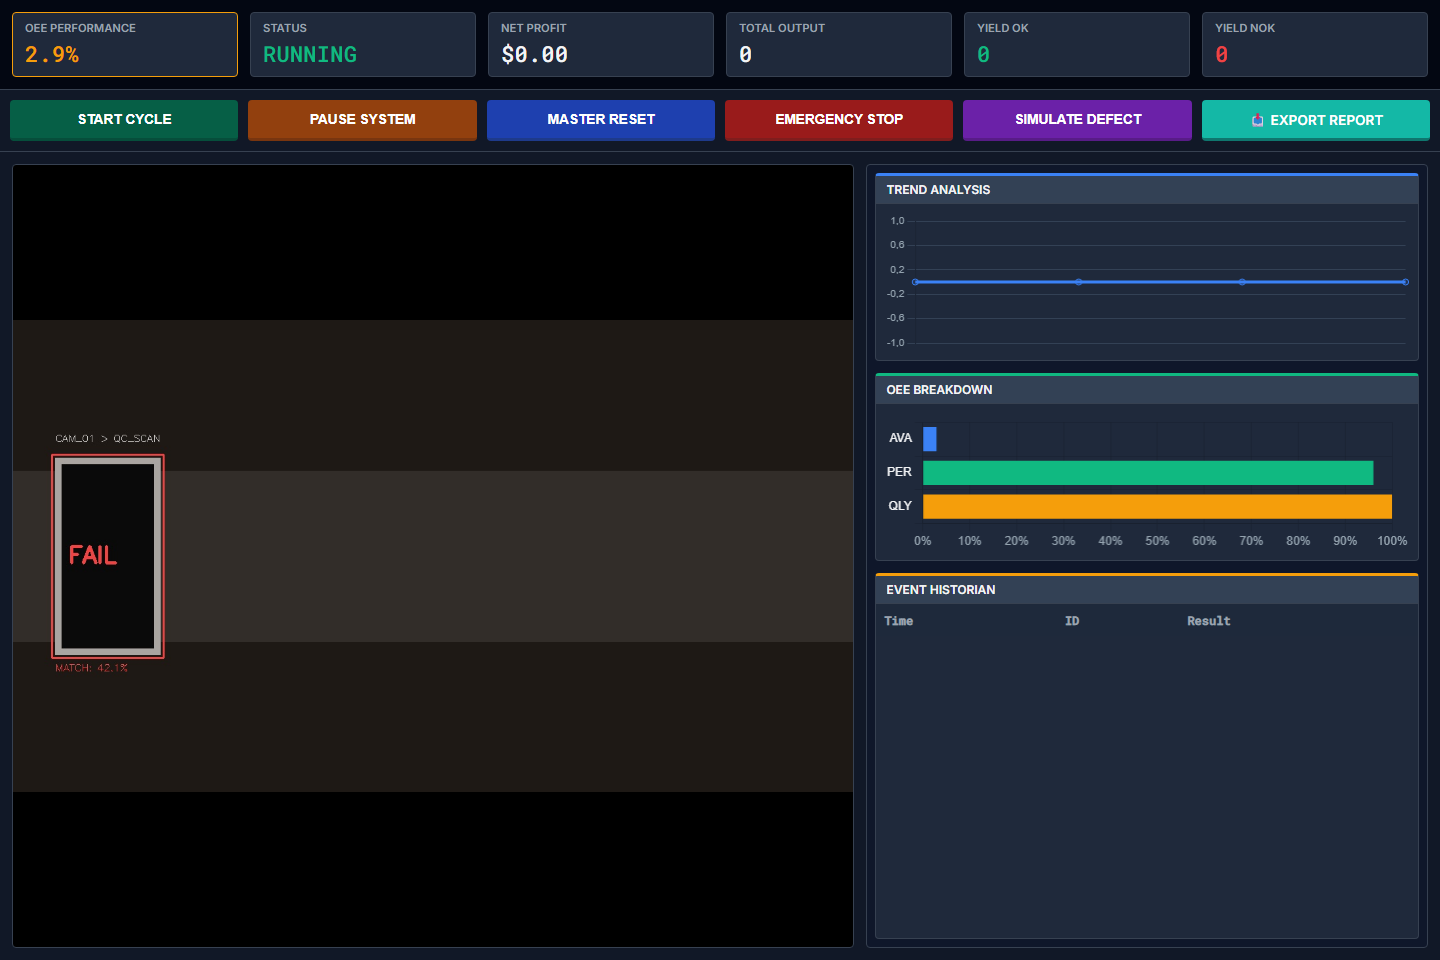
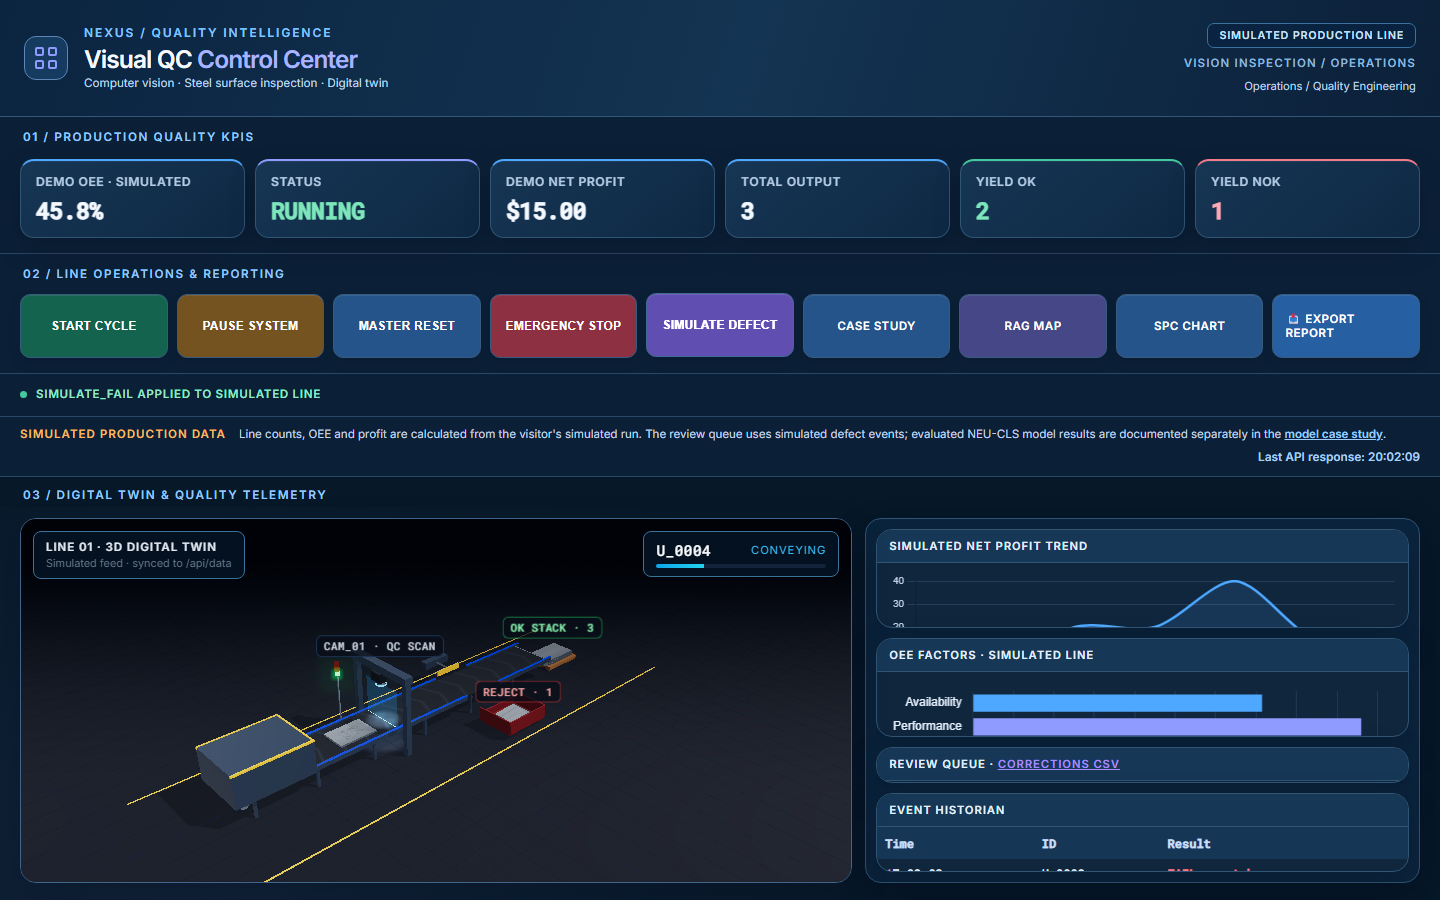
docs: publish genuine Visual QC screenshots (#47) [skip ci]

diff --git a/README.md b/README.md
@@ -1,8 +1,8 @@
 # Visual QC Project
 
-![Visual QC quality inspection workflow illustration](docs/assets/visual-qc-overview.svg)
+![Visual QC production HMI: simulated line running, digital twin, quality KPIs and defect event (real browser capture)](docs/assets/visual-qc-dashboard.png)
 
-> Editorial workflow diagram, not a captured model decision. For actual application evidence and measured performance, see the [live dashboard](https://visual-qc-project-pearl.vercel.app) and the original screenshots and evaluation charts below.
+> **Real production screenshot (14 October 2026):** recorded during a successful Chromium E2E test of the Vercel operator HMI. It shows a **simulated** production line and observed simulated defect, not actual factory production. The independent measured CV model charts below remain unchanged. [Capture provenance](docs/assets/production_screenshot_provenance_20261014.json).
 
 **Quality checks:** [CircleCI — Python/PostgreSQL validation](https://circleci.com/gh/senanurcetin/visual-qc-project/5) · GitHub Actions are not the current automatic CI provider.
 ![Python](https://img.shields.io/badge/Python-3.12-blue)
@@ -18,7 +18,7 @@ Portfolio entry: [senanur-cetin.vercel.app/projects/visual-qc-project](https://s
 
 Short video: [`docs/assets/visual-qc-dashboard.webm`](docs/assets/visual-qc-dashboard.webm)
 
-![Visual QC dashboard](docs/assets/visual-qc-dashboard.png)
+![Visual QC production operator dashboard on 375px mobile viewport](docs/assets/visual-qc-mobile-375.png)
 
 ---
 
@@ -33,7 +33,7 @@ The Flask HMI serves **[Download session report (XLSX)](https://visual-qc-projec
 - **Evidence scope:** the yellow header states **SIMULATED DEMO / NOT REAL PLANT DATA**. These measurements describe a visitor's deterministic factory-line simulation, **not** an actual plant or independently benchmarked NEU-CLS classifier performance.
 - **Empty session:** export returns 404 until simulated units are completed; it does not invent historical plant records.
 
-**Release note:** source changes and tests must pass CircleCI, and the updated Vercel deployment must be confirmed before claiming this revised workbook is available in the public demo. Existing README screenshot/video assets predate this workbook design and are not presented as new captures.
+**Release note:** source changes and tests must pass CircleCI, and the updated Vercel deployment must be confirmed before claiming this revised workbook is available in the public demo. README HMI screenshots are actual production browser captures dated 14 October 2026; the linked WebM video remains a historical recording. Screenshots do not by themselves verify workbook internals.
 
 ---
 
@@ -176,6 +176,10 @@ Reviewing the top 20% highest-entropy samples captures 82% of the classifier's m
 ---
 
 ## AI Engineering Layer — Steel QC Knowledge Assistant (RAG)
+
+![Actual production Visual QC RAG interface (Chromium screenshot)](docs/assets/visual-qc-rag.png)
+
+*Captured from the deployed /rag interface; retrieval and model quality are evaluated separately below.*
 
 ![Embedding map](docs/assets/rag-embedding-map.png)
 
@@ -358,7 +362,7 @@ python -m playwright install chromium
 E2E_BASE_URL=http://127.0.0.1:8080 E2E_SCREENSHOT_DIR=artifacts/hmi-browser python -m unittest discover -s tests/e2e -p 'test_smoke.py' -v
 ```
 
-The optional capture files are `visual-qc-desktop-1440.png` (line running after a simulated rejection) and `visual-qc-mobile-375.png` (reachable twin, charts and historian). This procedure does not enable or trigger hosted CI. No screenshot or full browser-test success is claimed until an actual run is performed and the captures are inspected. Confirm Vercel preview and production revisions separately before merging this draft or changing published imagery.
+The optional capture files are `visual-qc-desktop-1440.png` (line running after a simulated rejection) and `visual-qc-mobile-375.png` (reachable twin, charts and historian). This procedure does not enable or trigger hosted CI. Real production Chromium screenshots and a 6/6 production E2E run were recorded on 14 October 2026. Confirm Vercel preview and production revisions separately before merging this draft or changing published imagery.
 
 ---
 
